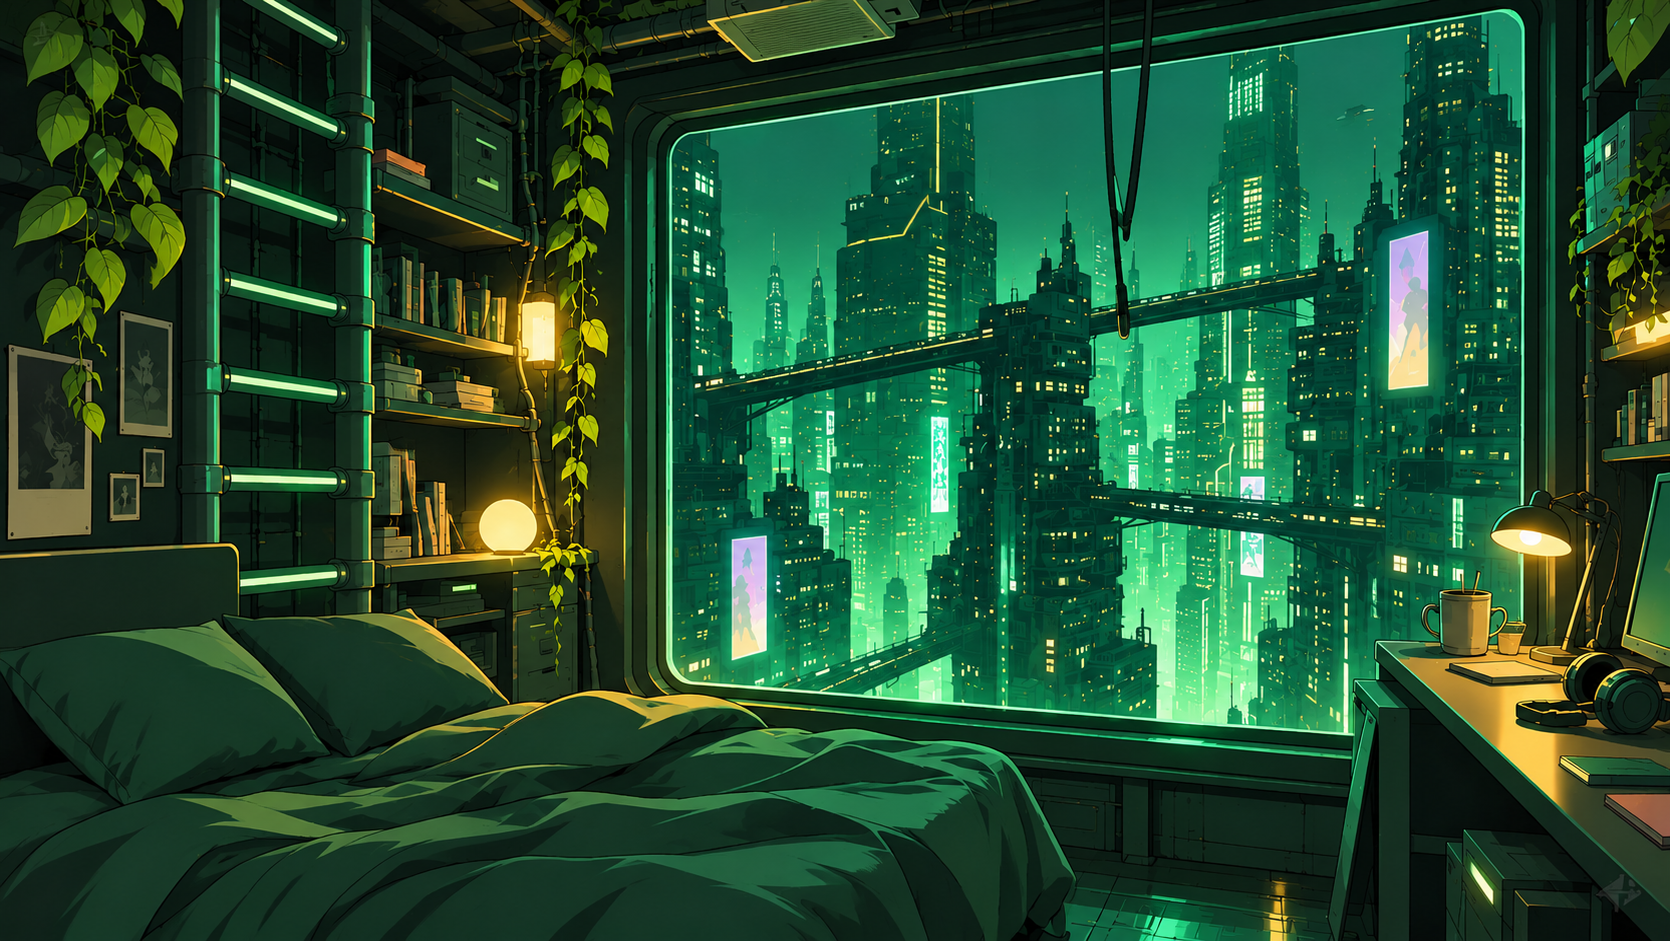
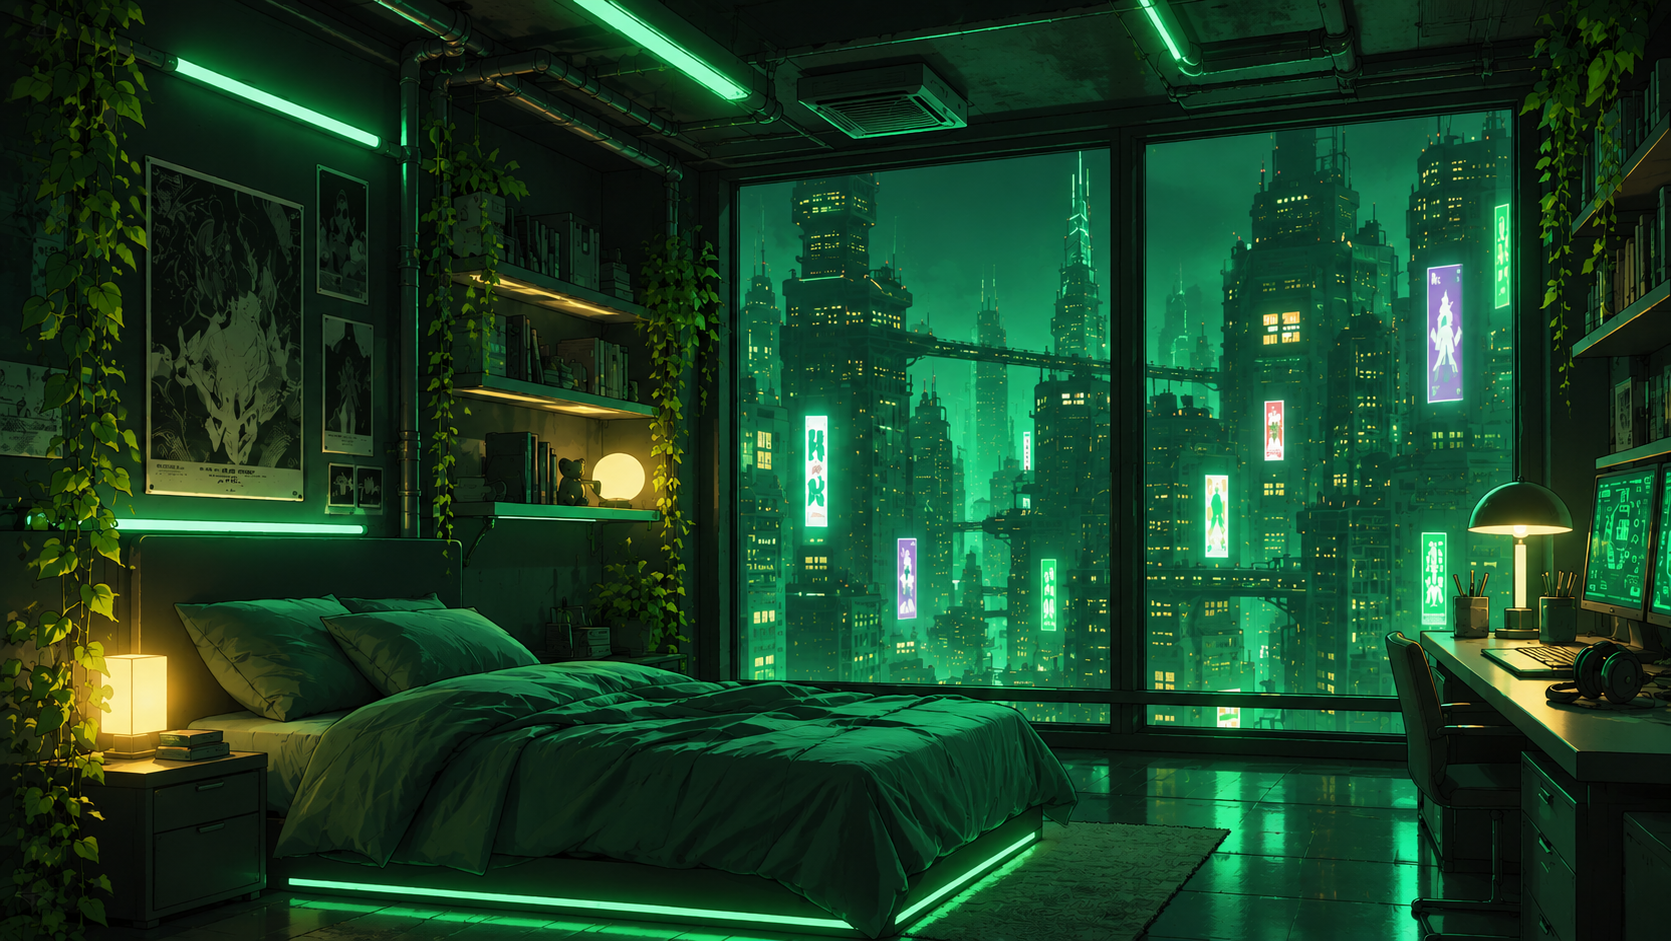
New room and Altaya images; Altaya picture on the Holo'Kids intro page

diff --git a/code/story.js b/code/story.js
@@ -1160,6 +1160,7 @@ const INTRO = [
     }
   },
   {
+    image: "images/altaya.png",   // Altaya is named on this page
     title: { fr: "Holo’Kids", en: "Holo’Kids" },
     text: {
       fr: "Altaya, un institut de recherche sur les nouvelles technologies, lance le programme Holo’Kids : des enfants hologrammes qui entrent dans les écoles pour soutenir les élèves en difficulté et renforcer la solidarité dans les classes.",

diff --git a/code/images/README.md b/code/images/README.md
@@ -4,7 +4,7 @@ Mets ici les images de fond de chaque lieu (16:9 de préférence), avec ces noms
 - classe.jpg   — Classe 3B
 - toit.png     — Le toit (mène à La Serre)  [déjà là]
 - serre.jpg    — La Serre
-- altaya.jpg   — Altaya (caché au début, s'ouvre si on devient ami avec Echo)
+- altaya.png   — Altaya (caché au début, s'ouvre si on devient ami avec Echo)  [déjà là]
 - chambre.png  — Chez toi (seulement pour la scène « Jeudi soir »)  [déjà là]
 - intro-2041.png — Image de la page d'introduction « 2041 »  [déjà là]
 
